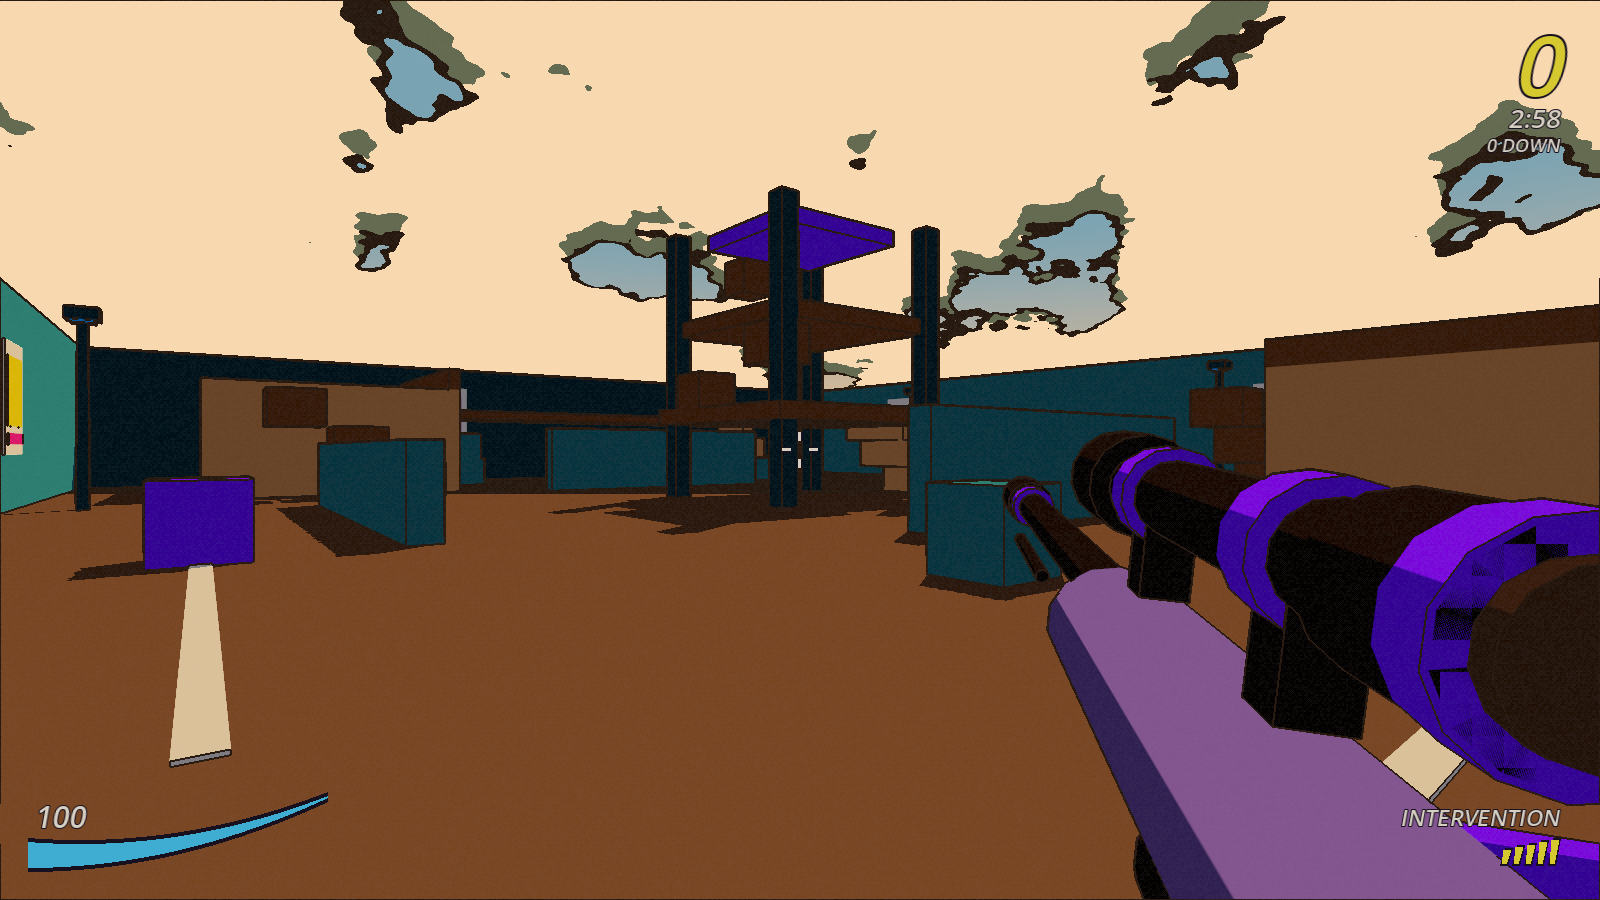
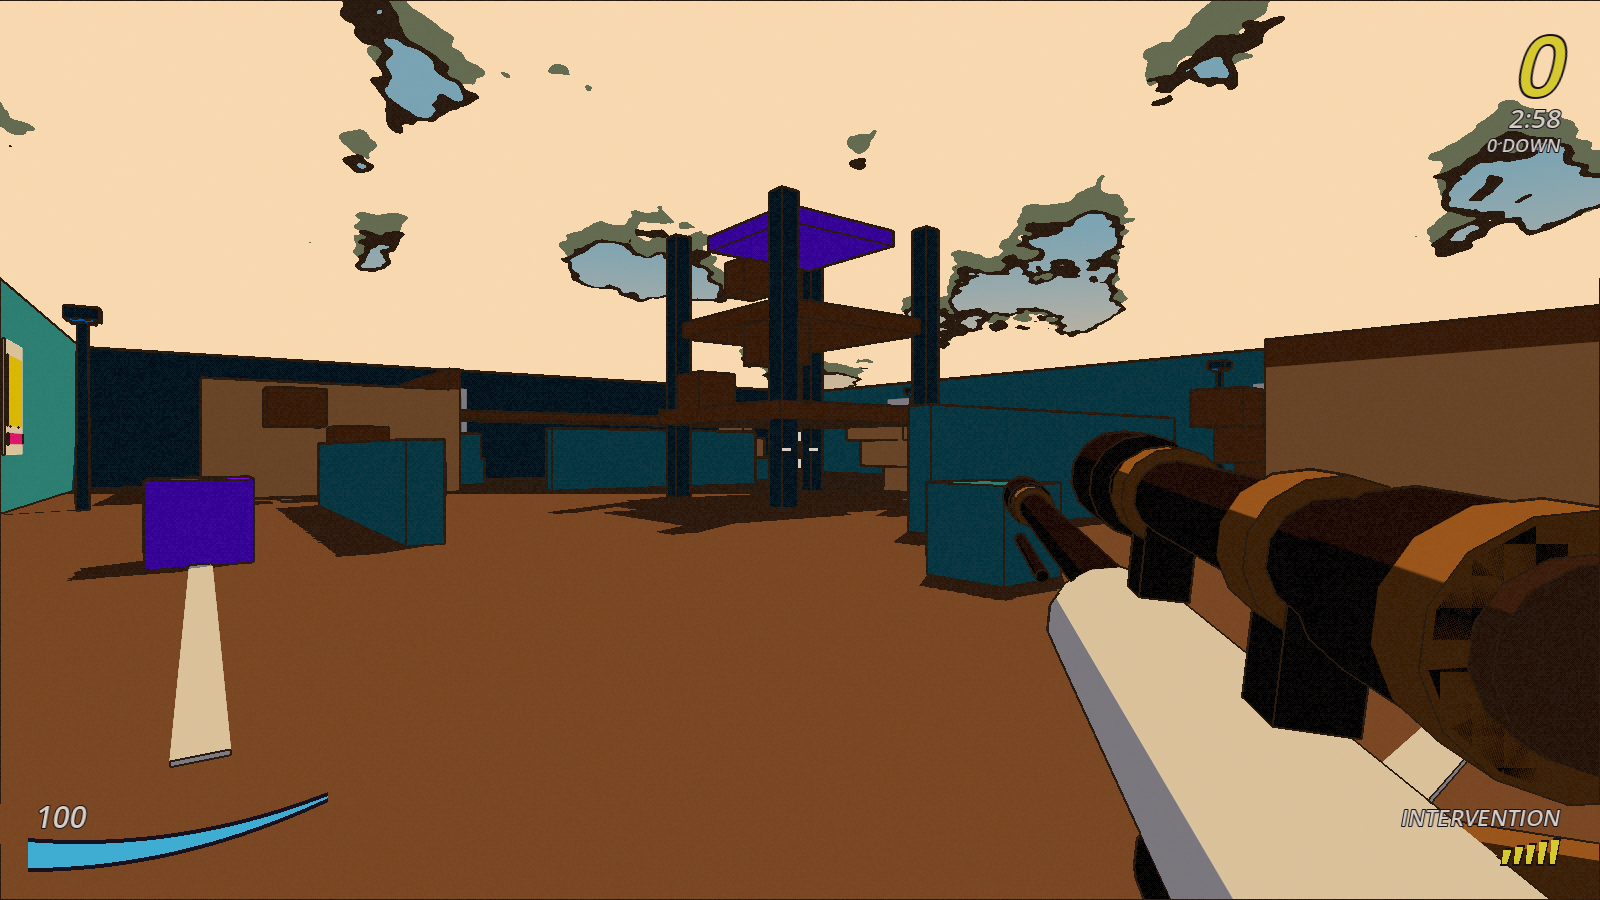
Lower menu sounds, heavy sniper round-in, cream sniper, crisp AR shot, fork hover glow; ARENA scores from the kill log
- synth: ui_hover/click/back as low taps and knocks; shell_in as a heavy
  clack + metal ring + sub thump; ar_fire as a snap + crack with a short kick
- viewmodel: sniper cream with tan fittings
- board: hovering LEFT/RIGHT lifts and lights the tile that choice leads to
  (--hover_fork harness flag)
- fps match: kills/deaths for scoring and the HUD come from the kill log;
  a warning logs any disagreement with the rollback state counters

Changed region(s): [[0.6562, 0.4978, 1.0, 1.0], [0.6875, 0.4978, 0.75, 0.5911], [0.625, 0.5289, 0.6562, 0.56]]

diff --git a/DECISIONS.md b/DECISIONS.md
@@ -111,3 +111,5 @@ Append-only. One line per assumption: date, the decision, the reason. Newest at 
 - 2026-09-18 — Board spots (Sean's list): item spot (crate marker, gives a random item), damage spot (spiked-ball marker, −3 coins, or eaten by a shield), coin spot (+3), and exactly one safe spot (`shield` type, cyan tile with a dome marker) opposite the start that hands out a SHIELD you carry until the next bomb or damage spot hits you: that is the "invulnerable to damage" spot. The event spot (teleport) stays. Generated into BOMBA BAY by `tools/gen_board.py`; tested.
 - 2026-09-18 — Sniper hip pose copied from `reference/Intervention_MW2.webp` (his file): rear-right-top view, eyepiece close at the right, muzzle up-left, canted 16° so the scope top and the bolt show; position (0.25, −0.21, −0.38), pitch +7°, yaw +27°.
 - 2026-09-18 — Sniper hip pose restored to the session-1 numbers (0.23, −0.19, −0.34; pitch 3°, yaw −11°, roll −5°) on Sean's word ("switch it back to what you had initially, it looks really bad right now"). The rounded model, round scope and the through-the-glass scope-in stay; only the pose went back.
+- 2026-09-18 — Sean's sixth round: (1) menu sounds are now low felt taps and woody knocks (hover peak 280 Hz, click 222 Hz, back 170 Hz; were 880–940 Hz sines and squares); (2) the sniper's round-in sound is a heavy clack, a 500 Hz metal ring, a sub-100 Hz seat thump and the action closing 80 ms later, 190 ms, peak 79 Hz ("a huge calibre round into the deadliest weapon, think Halo 3's shotgun"); (3) the sniper is cream with tan fittings, no purple left on it, the sleeve stays the player's colour; (4) the AR shot is a 1.5–7 kHz snap plus a mid crack with a 30 ms kick, centroid 4.1 kHz, 76 ms (was a thud); (5) hovering LEFT or RIGHT at a fork lifts and lights the tile that choice leads to (`BoardView.highlight_space`), `--hover_fork=left|right` reproduces it for screenshots.
+- 2026-09-18 — ARENA scoring and the HUD's kills/deaths now read the kill log (one entry per life, what the feed shows) instead of the rollback state counters, because Sean's match had a kill in the feed that the state counter lost (his kill at tick 7170 scored 0). Bot-driven and scripted host seats did not reproduce it. `_finish_round` warns whenever the two disagree, so his next log names the tick if it happens again.

diff --git a/STATUS.md b/STATUS.md
@@ -230,6 +230,12 @@ has item / damage / coin spots plus one safe spot that hands out a SHIELD (block
 bomb or damage spot; tested), and the sniper hip pose is copied from his
 `reference/Intervention_MW2.webp`. 73 tests, 9973 assertions.
 
+Sixth round: menu sounds lowered (hover 280 Hz, click 222 Hz), the sniper's round-in sound
+made heavy (peak 79 Hz), the sniper painted cream, the AR shot made crisp (centroid 4.1 kHz,
+76 ms), fork hover glow on the board. His ARENA kill at tick 7170 was in the feed but scored 0:
+scoring and the HUD now read the kill log, and a warning logs any state/log disagreement.
+Not reproduced with bot or scripted seats.
+
 ### Bugs found and fixed today (all measured before and after)
 
 1. Client's view of remote players lagged whole tick loops → 25 % hit confirmation. netfox
